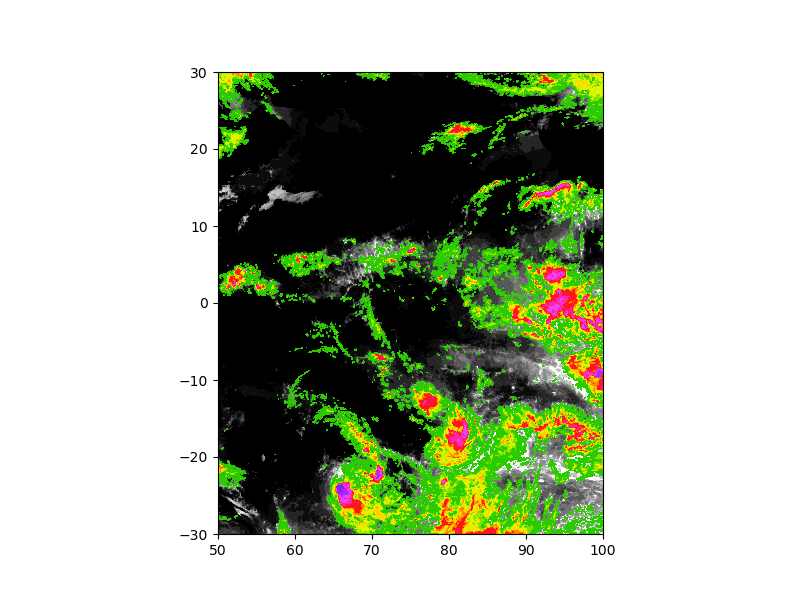
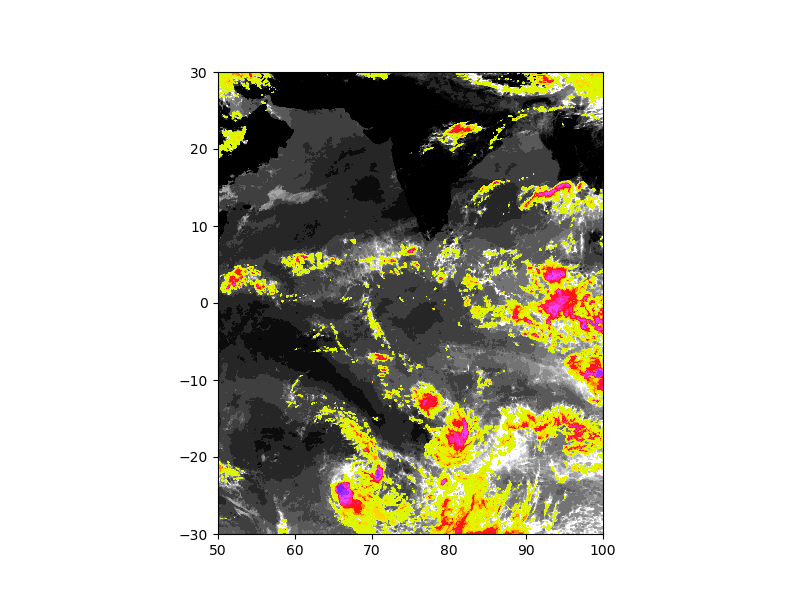
testing in progress

Changed region(s): [[0.25, 0.12, 0.7812, 0.9]]

diff --git a/examine_satellite_data/plot_seviri_windowbt.py b/examine_satellite_data/plot_seviri_windowbt.py
@@ -37,13 +37,13 @@ def plot_windowbt( lon2d, lat2d, bt2d, ax ):
 
   # Plot out clr BTs
   clr_bts = bt2d*1.
-  clr_bts[ bt2d < 285 ] = np.nan
-  cnf_clr = ax.contourf( lon2d, lat2d, clr_bts, np.linspace(285,295,11),
+  clr_bts[ bt2d < 280 ] = np.nan
+  cnf_clr = ax.contourf( lon2d, lat2d, clr_bts, np.linspace(280,300,11),
                          cmap = 'binary', extend='max')
 
   # Plot out cld BTs
   cld_bts = bt2d*1.
-  cld_bts[ bt2d > 280 ] = np.nan
+  cld_bts[ bt2d > 264 ] = np.nan
   cnf_cld = ax.contourf( lon2d, lat2d, cld_bts, np.linspace(200,280,11),
                          cmap = cloud_cmap, extend='min')
 
